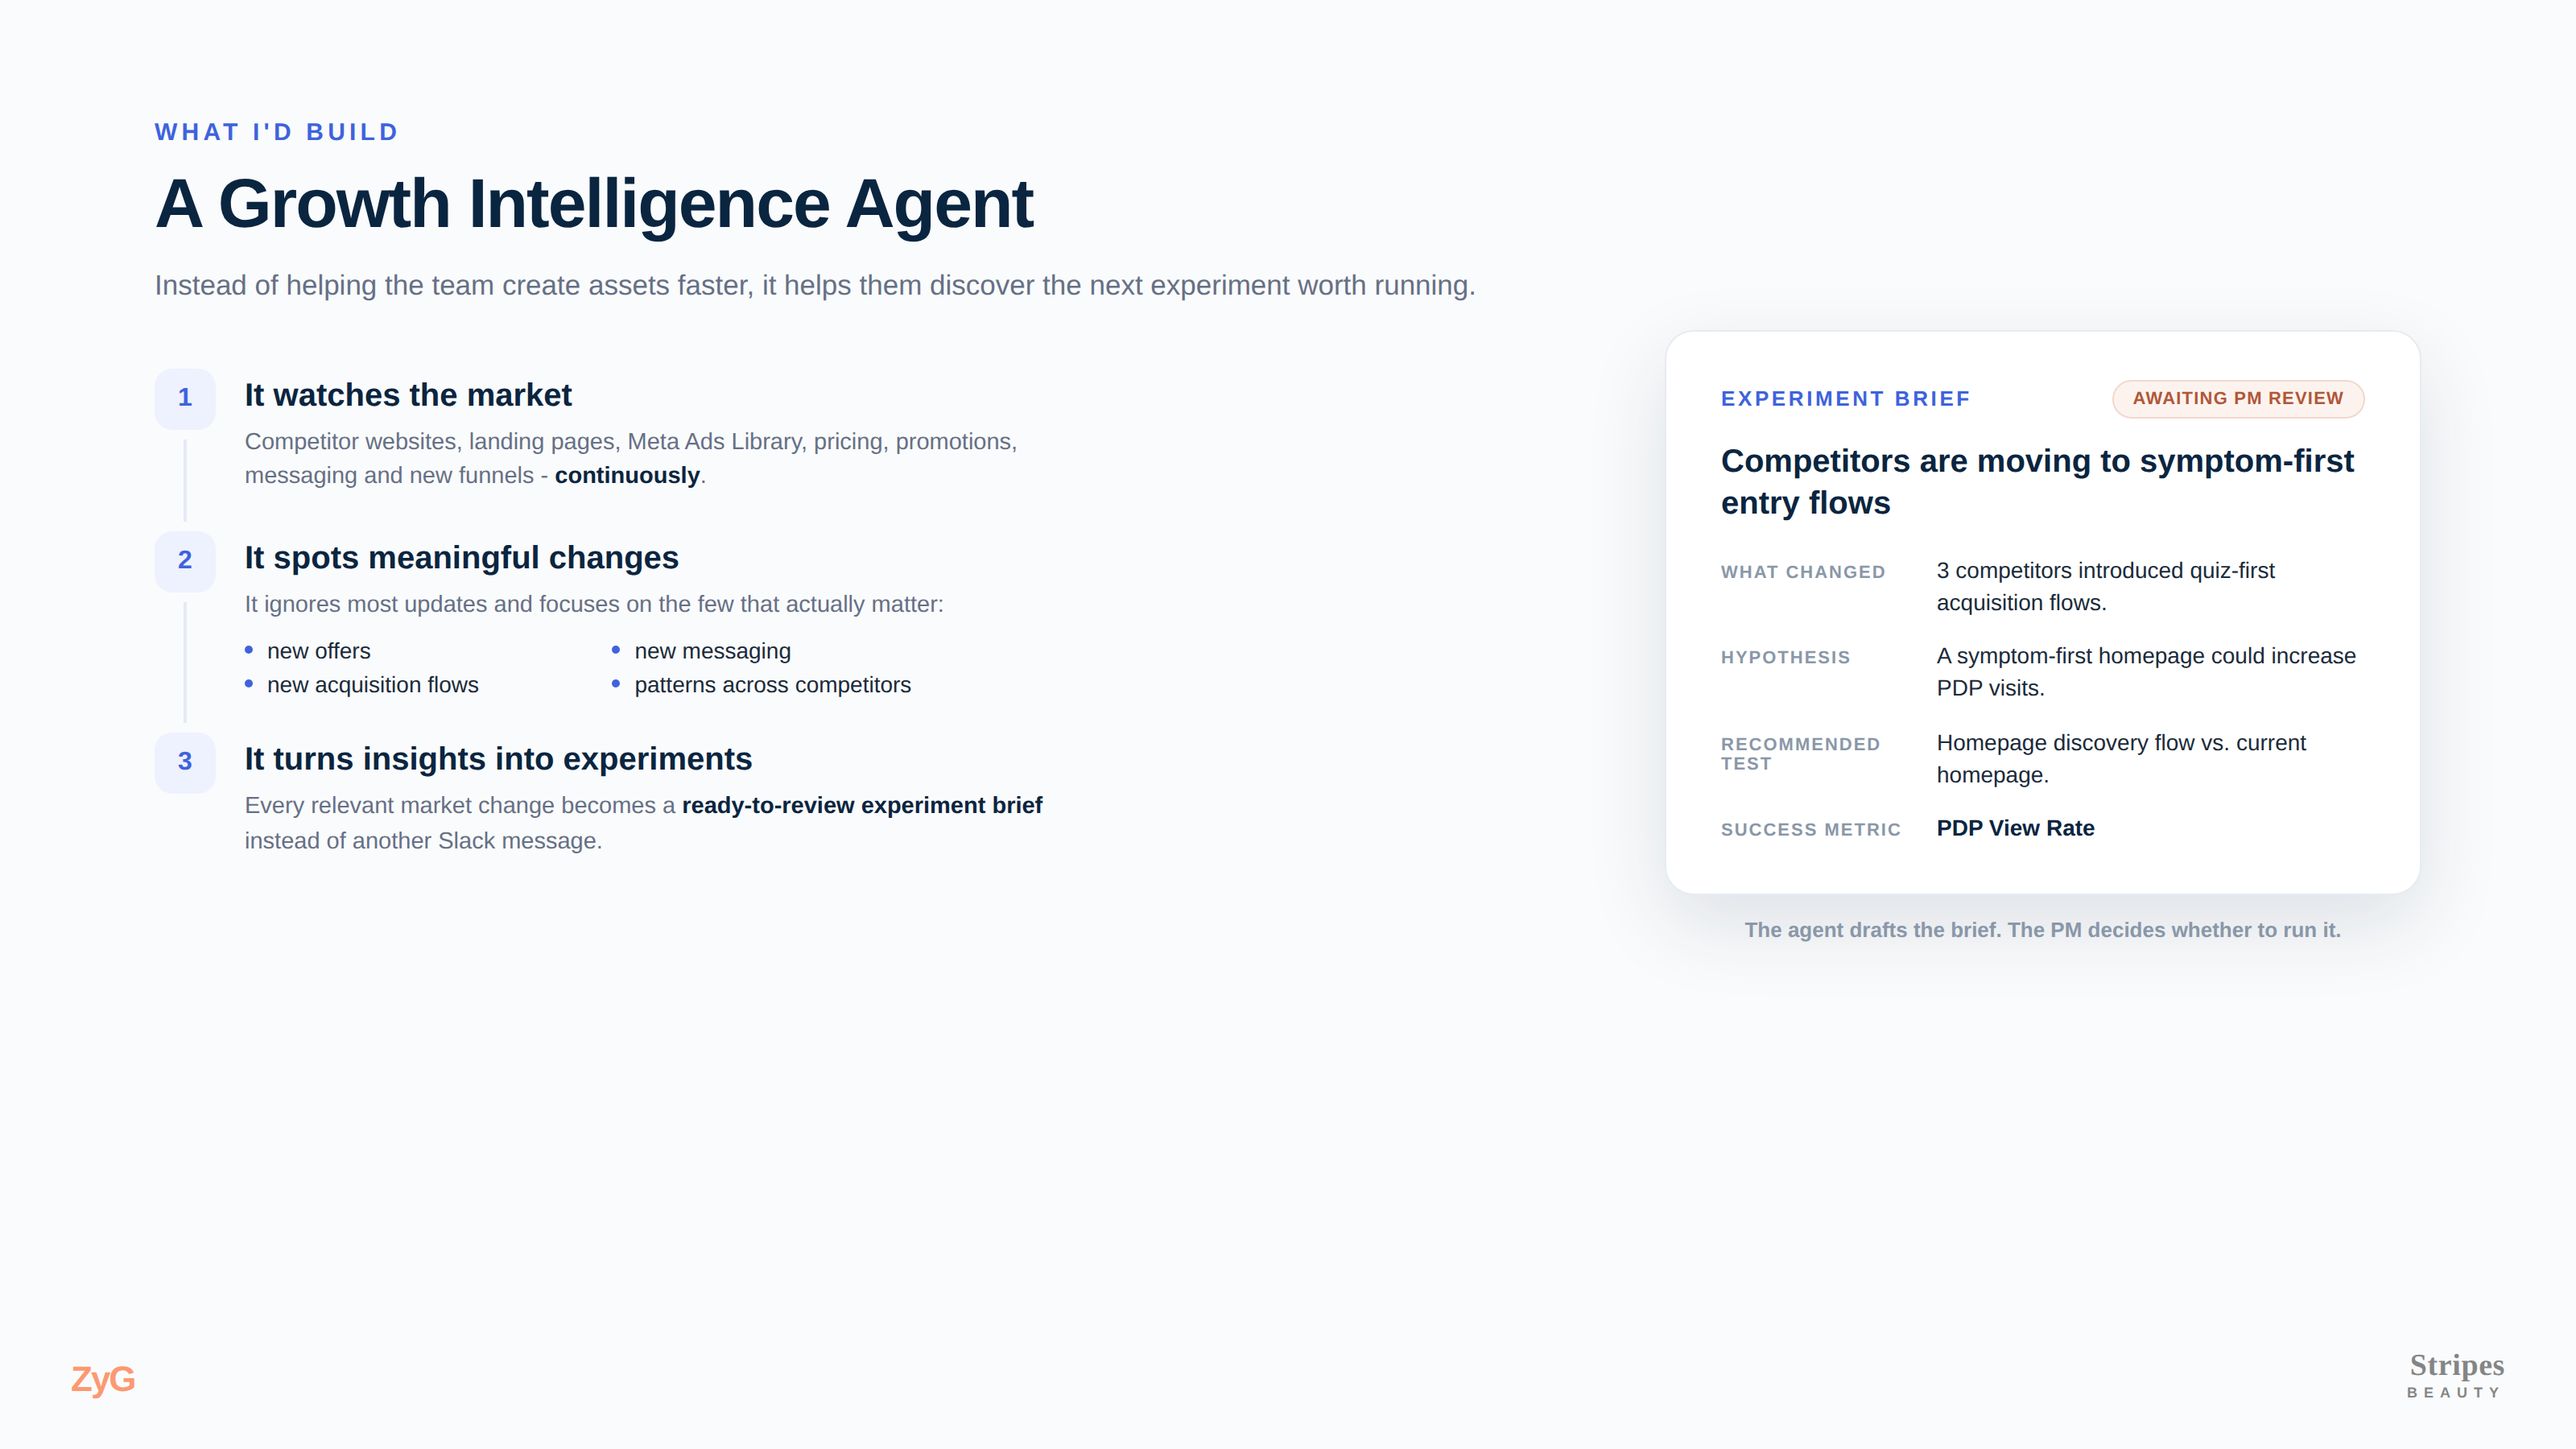
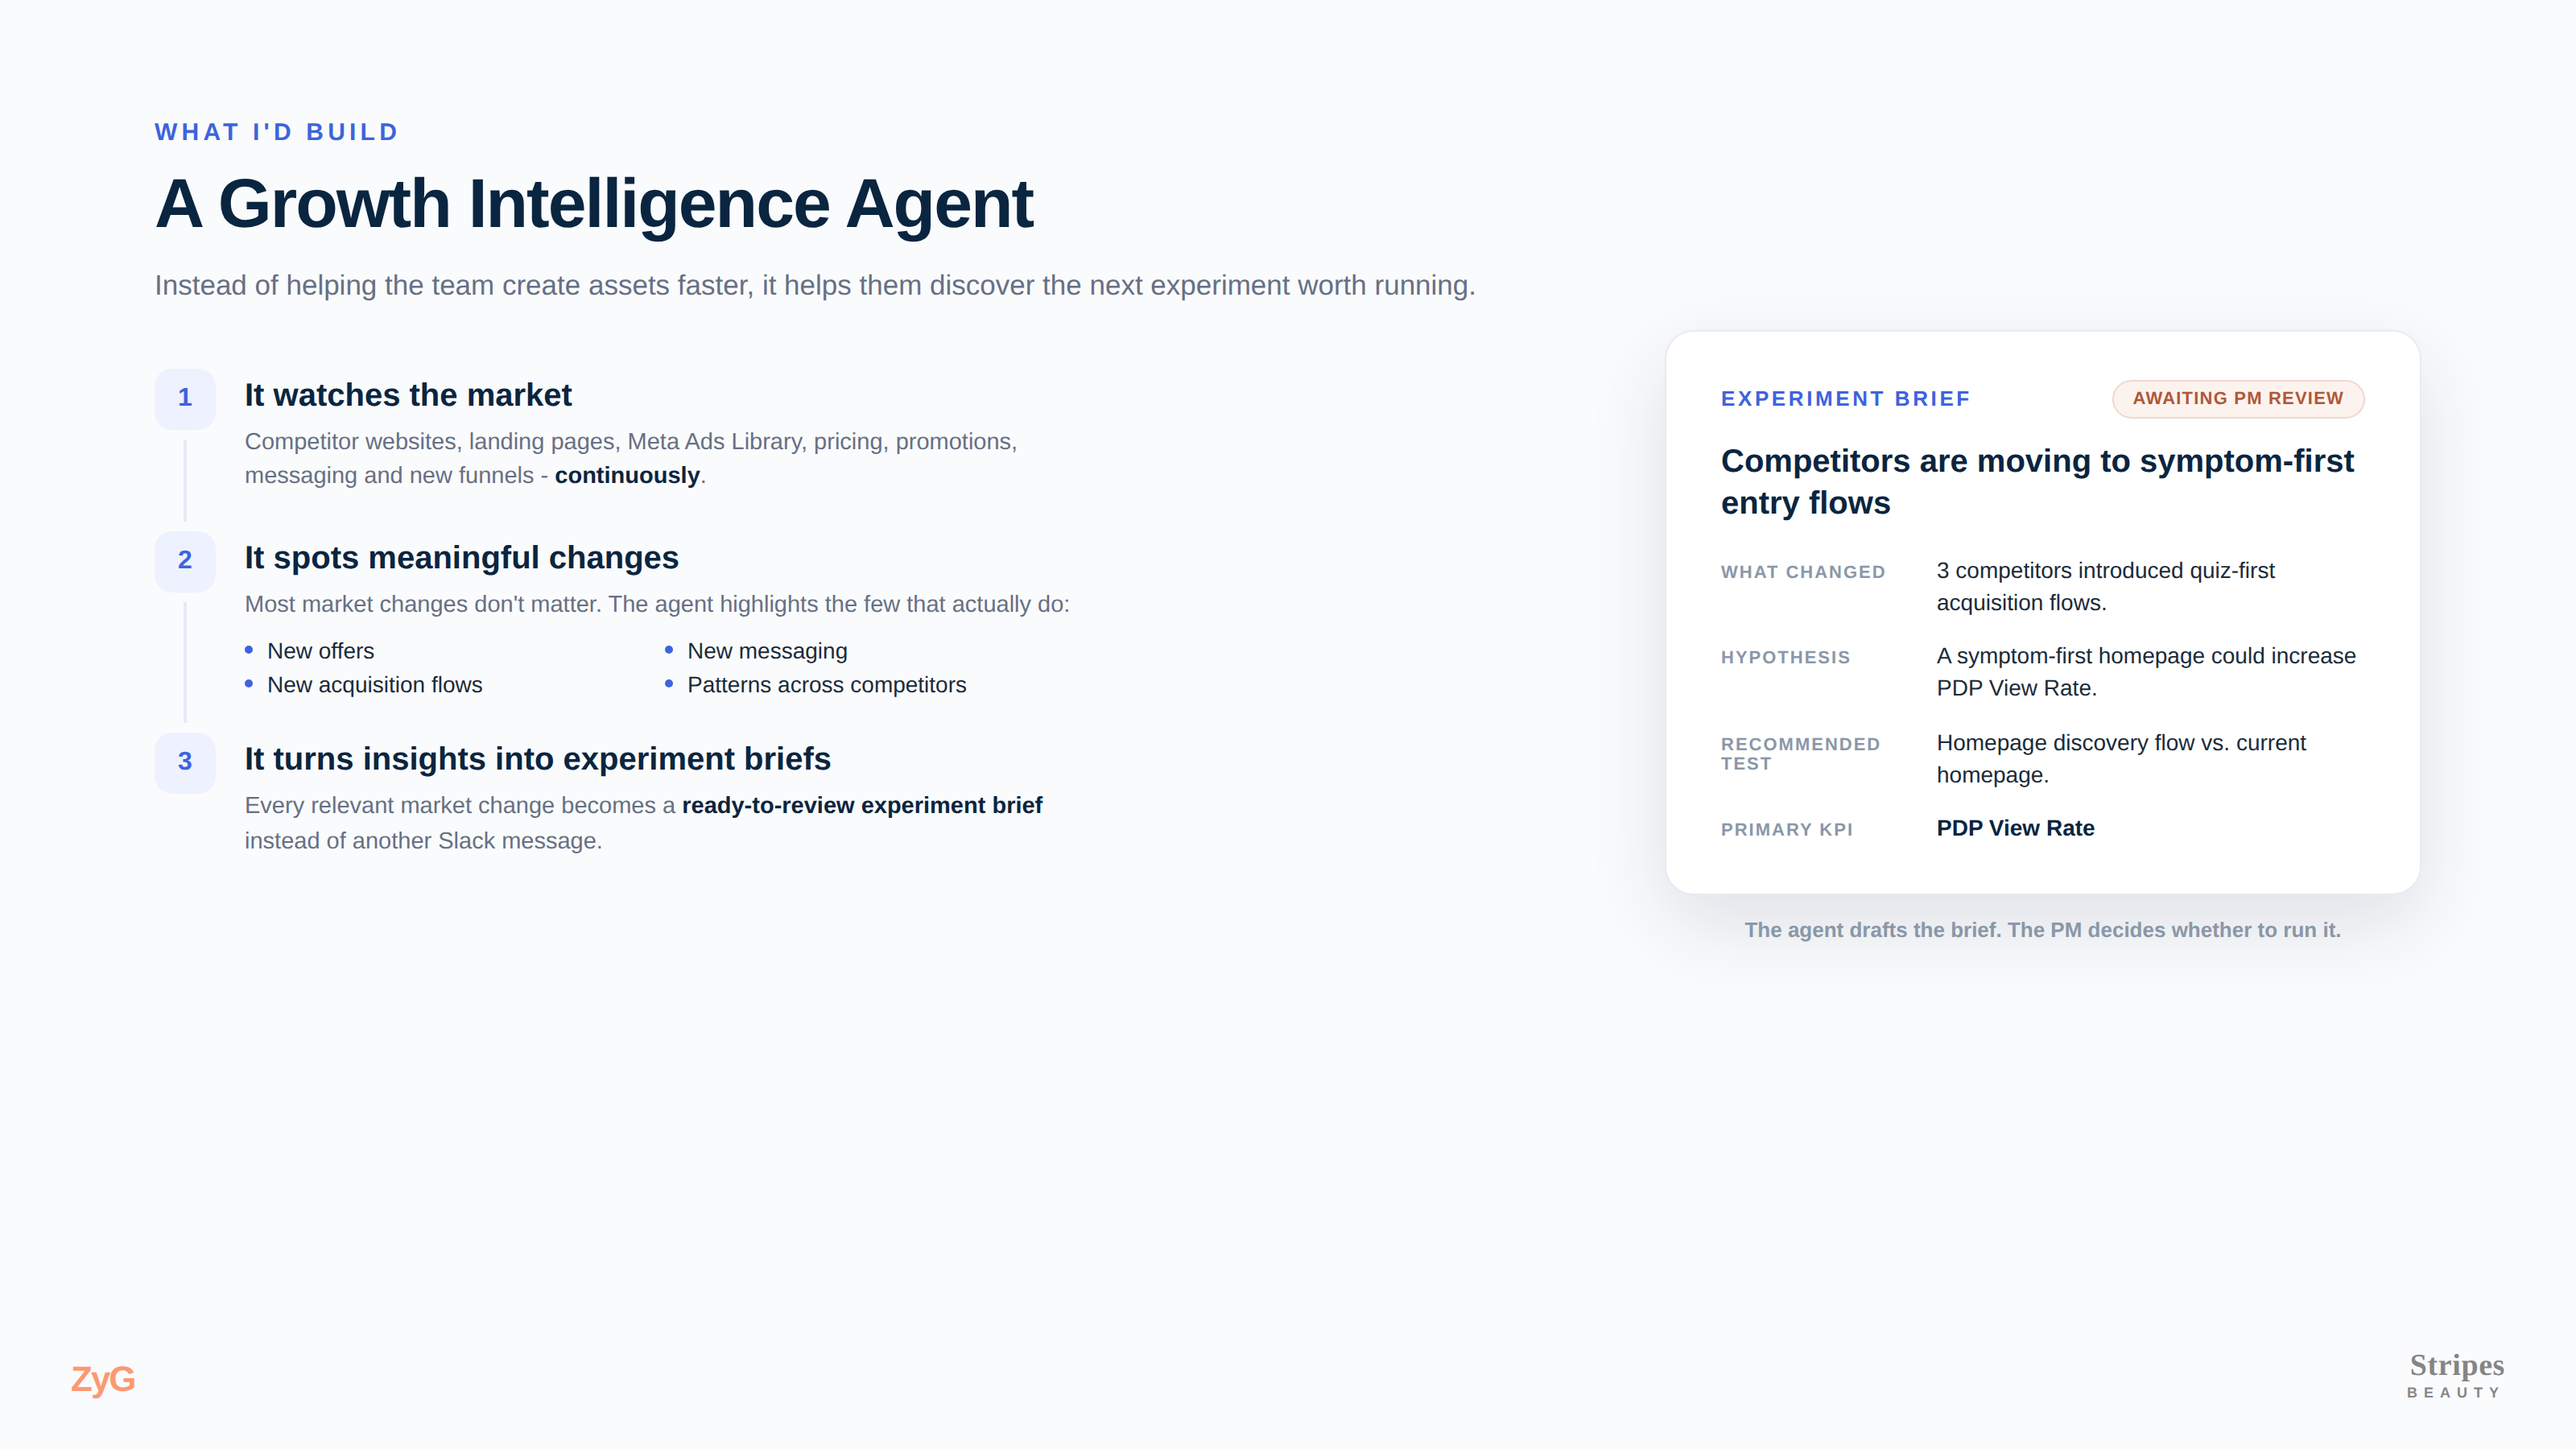
Part 4 exact-copy pass: slides 2 and 3
Remove quotes on question shift; update bottom banner wording; slide 3 step 2
copy and capitalized items; step 3 'experiment briefs'; brief hypothesis to PDP
View Rate and label to Primary KPI.

Claude-Session: https://claude.ai/code/session_01GoAG3ySswQXo2H1hh5EwTk

Changed region(s): [[0.0938, 0.4044, 0.4062, 0.5289], [0.7812, 0.4667, 0.8125, 0.4978], [0.6875, 0.56, 0.7188, 0.5911]]

diff --git a/diagrams/slides/p4-03-build.html b/diagrams/slides/p4-03-build.html
@@ -49,19 +49,19 @@
           <div class="rail"><span class="n">2</span><span class="ln"></span></div>
           <div class="body">
             <h3>It spots meaningful changes</h3>
-            <p>It ignores most updates and focuses on the few that actually matter:</p>
+            <p>Most market changes don't matter. The agent highlights the few that actually do:</p>
             <div class="mini">
-              <div class="m"><span class="d"></span>new offers</div>
-              <div class="m"><span class="d"></span>new messaging</div>
-              <div class="m"><span class="d"></span>new acquisition flows</div>
-              <div class="m"><span class="d"></span>patterns across competitors</div>
+              <div class="m"><span class="d"></span>New offers</div>
+              <div class="m"><span class="d"></span>New messaging</div>
+              <div class="m"><span class="d"></span>New acquisition flows</div>
+              <div class="m"><span class="d"></span>Patterns across competitors</div>
             </div>
           </div>
         </div>
         <div class="step">
           <div class="rail"><span class="n">3</span></div>
           <div class="body">
-            <h3>It turns insights into experiments</h3>
+            <h3>It turns insights into experiment briefs</h3>
             <p>Every relevant market change becomes a <b>ready-to-review experiment brief</b> instead of another Slack message.</p>
           </div>
         </div>
@@ -77,9 +77,9 @@
         <div class="title">Competitors are moving to symptom-first entry flows</div>
         <div class="rows">
           <div class="br"><span class="bl">What changed</span><span class="bv">3 competitors introduced quiz-first acquisition flows.</span></div>
-          <div class="br"><span class="bl">Hypothesis</span><span class="bv">A symptom-first homepage could increase PDP visits.</span></div>
+          <div class="br"><span class="bl">Hypothesis</span><span class="bv">A symptom-first homepage could increase PDP View Rate.</span></div>
           <div class="br"><span class="bl">Recommended test</span><span class="bv">Homepage discovery flow vs. current homepage.</span></div>
-          <div class="br"><span class="bl">Success metric</span><span class="bv"><b>PDP View Rate</b></span></div>
+          <div class="br"><span class="bl">Primary KPI</span><span class="bv"><b>PDP View Rate</b></span></div>
         </div>
       </div>
       <div class="caption">The agent drafts the brief. The PM decides whether to run it.</div>

diff --git a/diagrams/slides/p4-02-impact.html b/diagrams/slides/p4-02-impact.html
@@ -37,15 +37,15 @@
     </div>
 
     <div class="shift">
-      <div class="q1">"How do we build this?"</div>
+      <div class="q1">How do we build this?</div>
       <div class="qarrow">&darr;</div>
-      <div class="q2">"<b>What should we build next?</b>"</div>
+      <div class="q2"><b>What should we build next?</b></div>
     </div>
   </div>
 
   <div class="pick">
     <span class="lbl">My focus</span>
-    <div class="t">My focus isn't building faster. It's helping the team <b>decide what to build next</b>.</div>
+    <div class="t">My focus isn't helping teams build faster. It's helping them <b>decide what to build next</b>.</div>
   </div>
 
   <div class="foot"><div class="zyg">ZyG</div><div class="stripes"><div class="word">Stripes</div><div class="beauty">BEAUTY</div></div></div>
